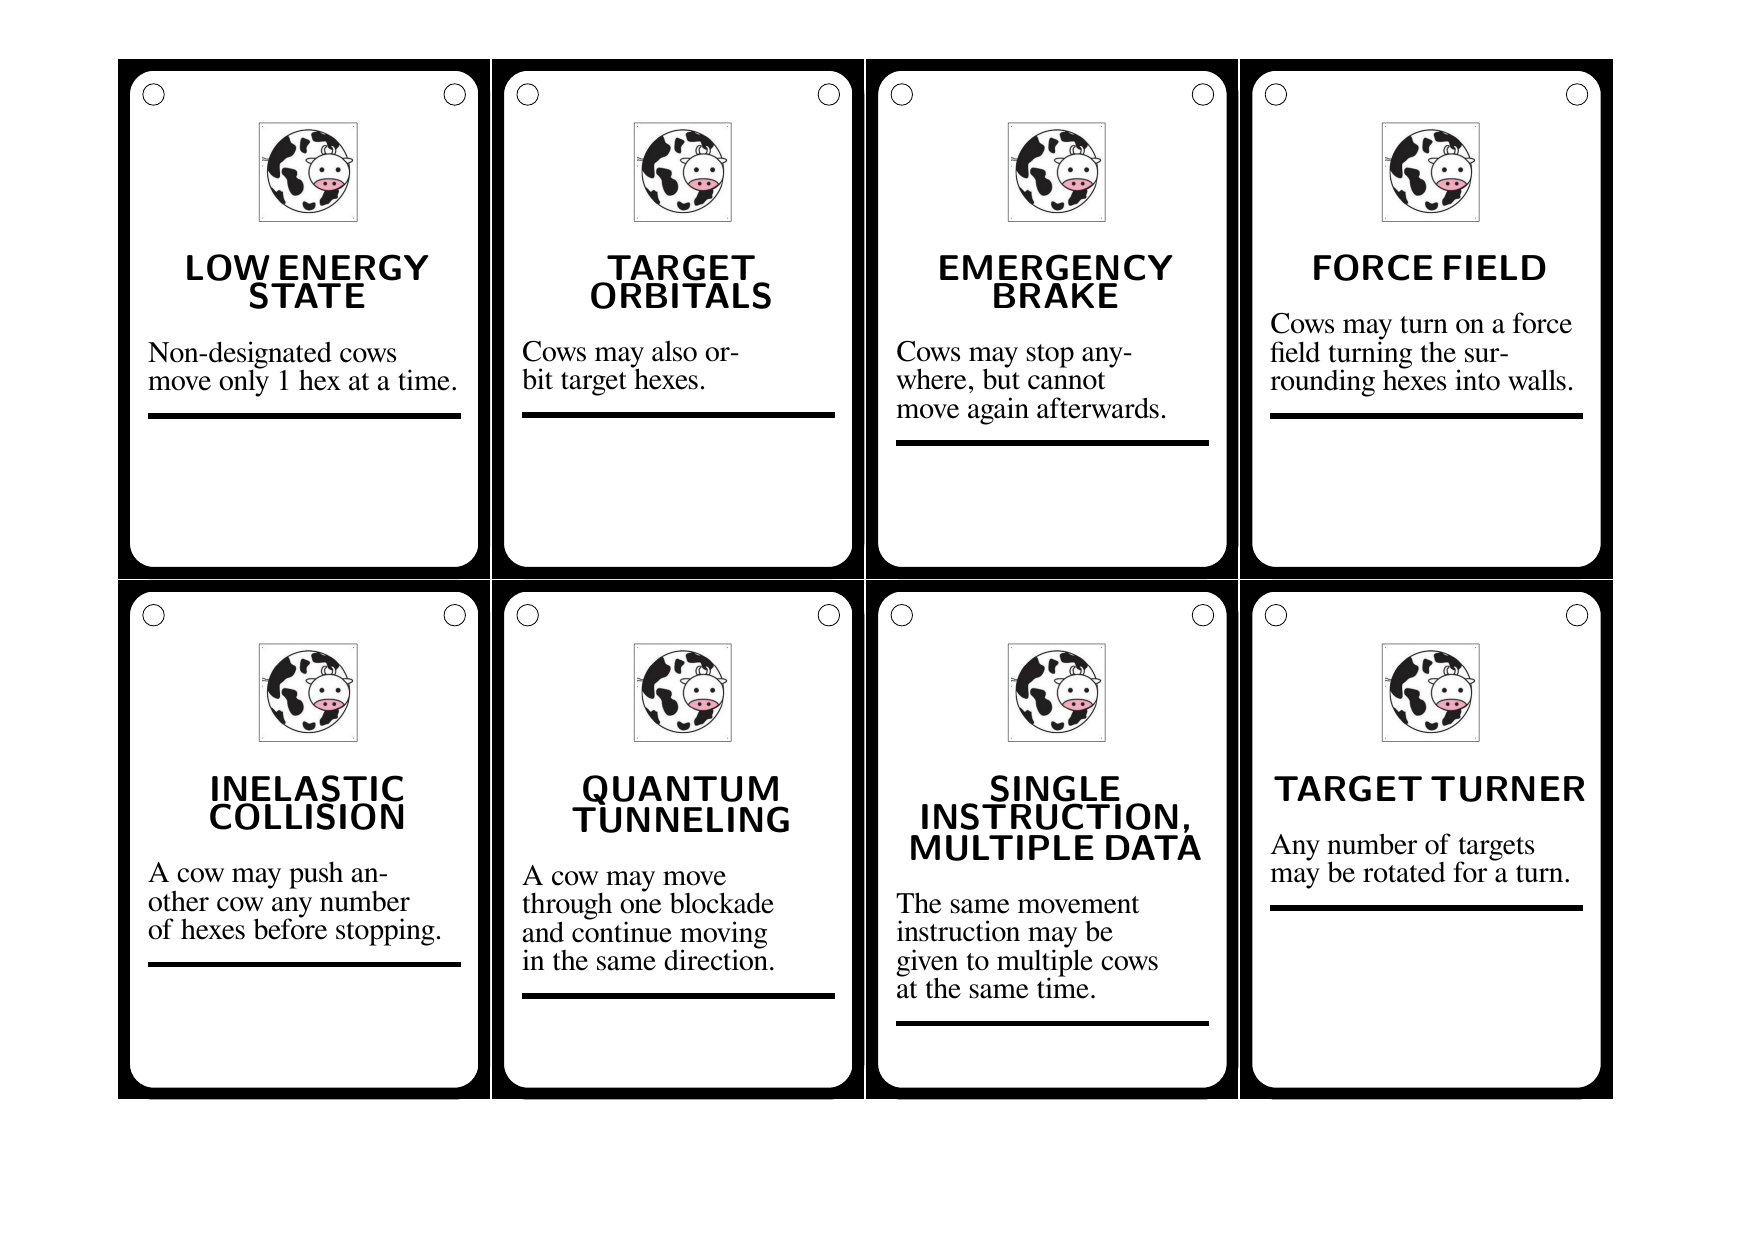
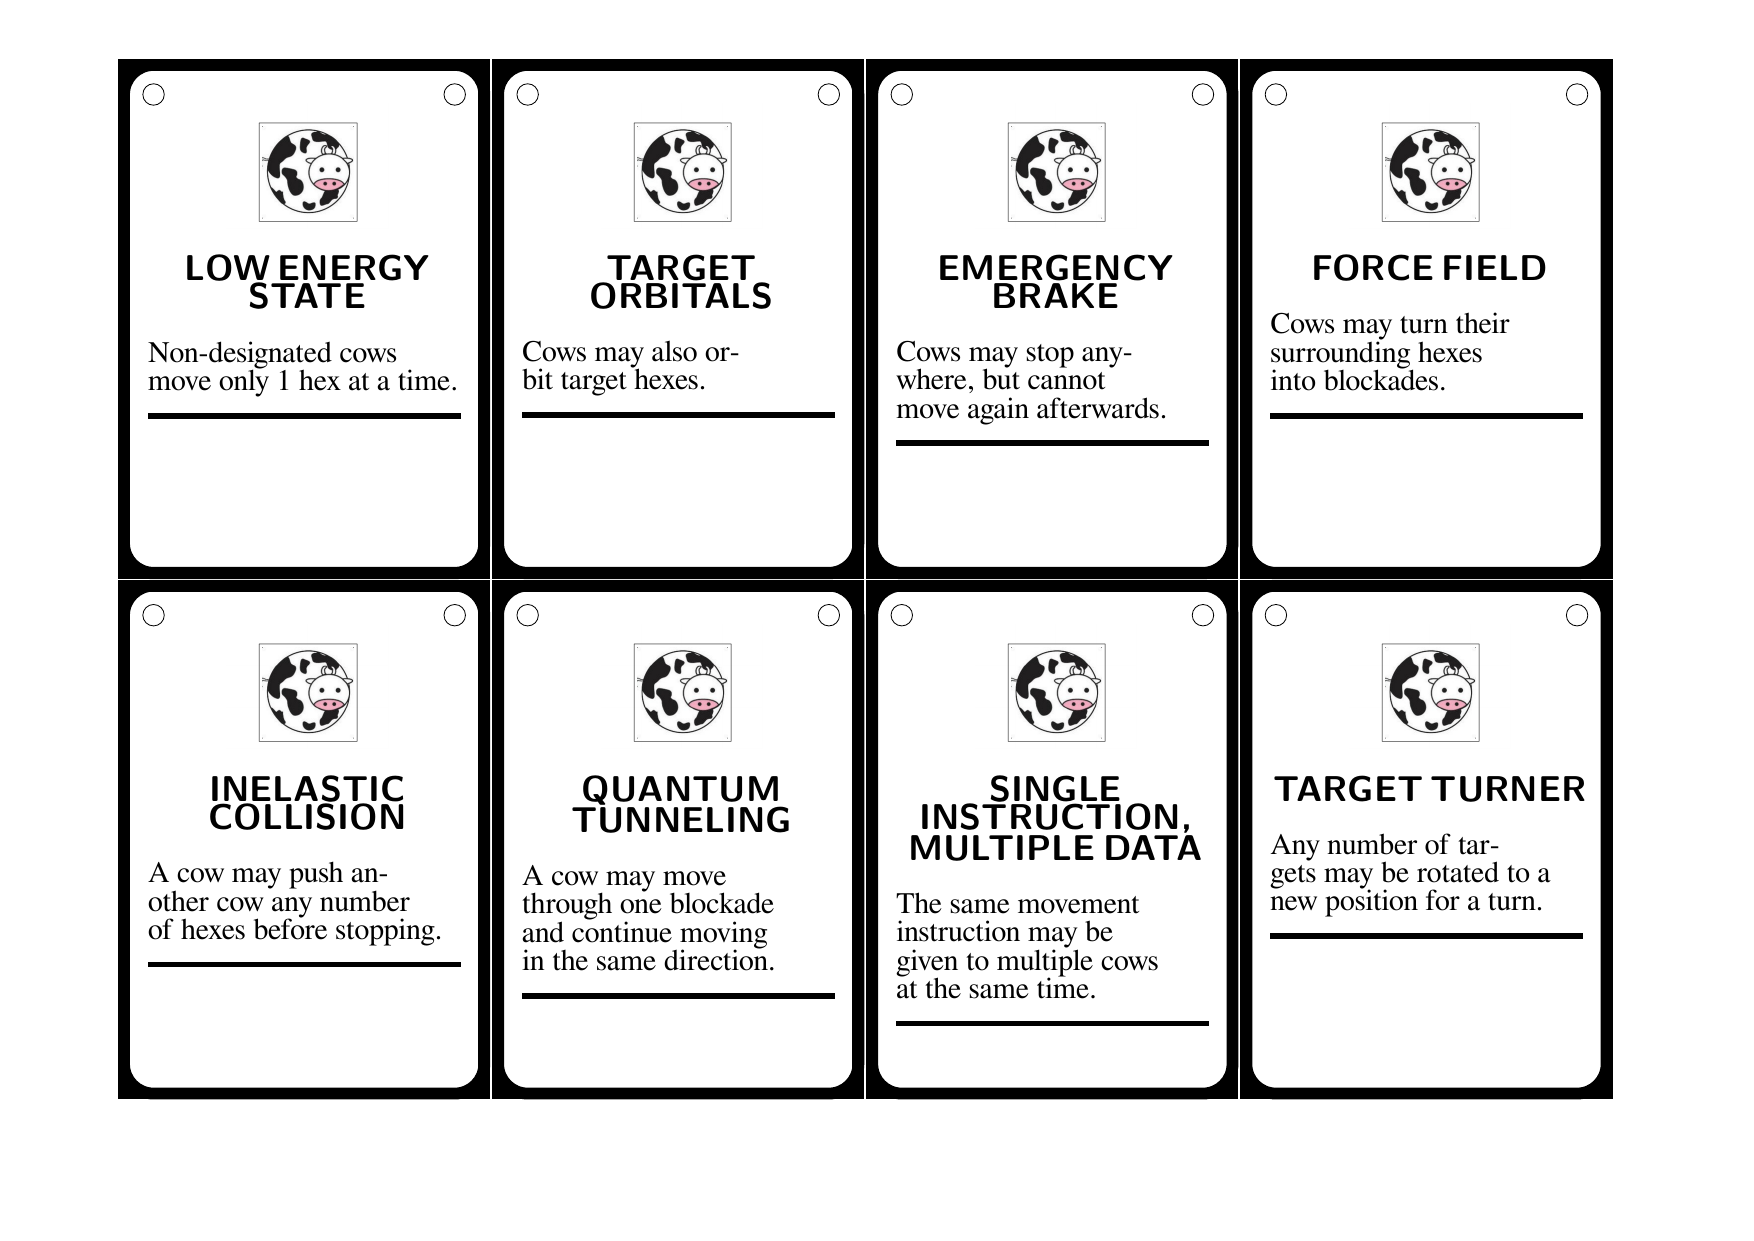
Fix minor errors

Changed region(s): [[0.7081, 0.6737, 0.8928, 0.7655], [0.7081, 0.245, 0.8928, 0.3368]]

diff --git a/Frictionless.tex b/Frictionless.tex
@@ -130,7 +130,7 @@
     \begin{center} {\fontsize{80pt}{60pt}\selectfont \COW}\\\end{center}
 \begin{center}
     {\captionfontsize \textsf{\textbf{FORCE FIELD}}}\end{center}
-        {\textfontsize Cows may turn on a force field turning the surrounding hexes into walls.}
+        {\textfontsize Cows may turn their surrounding hexes into blockades.}
         \tikz{\fill (0,0) rectangle (\cardwidth-2*\strippadding-2*\textpadding,\ruleheight);}\\
         {\quotefontsize \textit{}}\\[-2\baselineskip]
     };
@@ -251,7 +251,7 @@
     \begin{center} {\fontsize{80pt}{60pt}\selectfont \COW}\\\end{center}
 \begin{center}
     {\captionfontsize \textsf{\textbf{TARGET TURNER}}}\end{center}
-        {\textfontsize Any number of targets may be rotated for a turn.}
+        {\textfontsize Any number of targets may be rotated to a new position for a turn.}
         \tikz{\fill (0,0) rectangle (\cardwidth-2*\strippadding-2*\textpadding,\ruleheight);}\\
         {\quotefontsize \textit{}}\\[-2\baselineskip]
     };
@@ -281,8 +281,8 @@
     { 
     \begin{center} {\fontsize{80pt}{60pt}\selectfont \COW}\\\end{center}
 \begin{center}
-    {\captionfontsize \textsf{\textbf{WIDE REACH}}}\end{center}
-        {\textfontsize A cow may stop if either of the side diagonals are blocked.}
+    {\captionfontsize \textsf{\textbf{PARTICLE WAVE DUALITY}}}\end{center}
+        {\textfontsize A cow may stop if any of the side diagonals are blocked.}
         \tikz{\fill (0,0) rectangle (\cardwidth-2*\strippadding-2*\textpadding,\ruleheight);}\\
         {\quotefontsize \textit{}}\\[-2\baselineskip]
     };
@@ -371,8 +371,8 @@
     { 
     \begin{center} {\fontsize{80pt}{60pt}\selectfont \COW}\\\end{center}
 \begin{center}
-    {\captionfontsize \textsf{\textbf{CURVED SPACE}}}\end{center}
-        {\textfontsize Outer walls are removed. Cows moving into a wall wrapp to the opposite side of the board and continue moving.}
+    {\captionfontsize \textsf{\textbf{SPACE CURVATURE}}}\end{center}
+        {\textfontsize Outer walls are removed. Cows moving into a wall wrap to the opposite side of the board and continue moving.}
         \tikz{\fill (0,0) rectangle (\cardwidth-2*\strippadding-2*\textpadding,\ruleheight);}\\
         {\quotefontsize \textit{}}\\[-2\baselineskip]
     };
@@ -402,7 +402,7 @@
     { 
     \begin{center} {\fontsize{80pt}{60pt}\selectfont \COW}\\\end{center}
 \begin{center}
-    {\captionfontsize \textsf{\textbf{MAGNETIC REPULSION}}}\end{center}
+    {\captionfontsize \textsf{\textbf{ACTION AT A DISTANCE}}}\end{center}
         {\textfontsize Non-designated cows may stop one hex short of a blocking hex.}
         \tikz{\fill (0,0) rectangle (\cardwidth-2*\strippadding-2*\textpadding,\ruleheight);}\\
         {\quotefontsize \textit{}}\\[-2\baselineskip]
